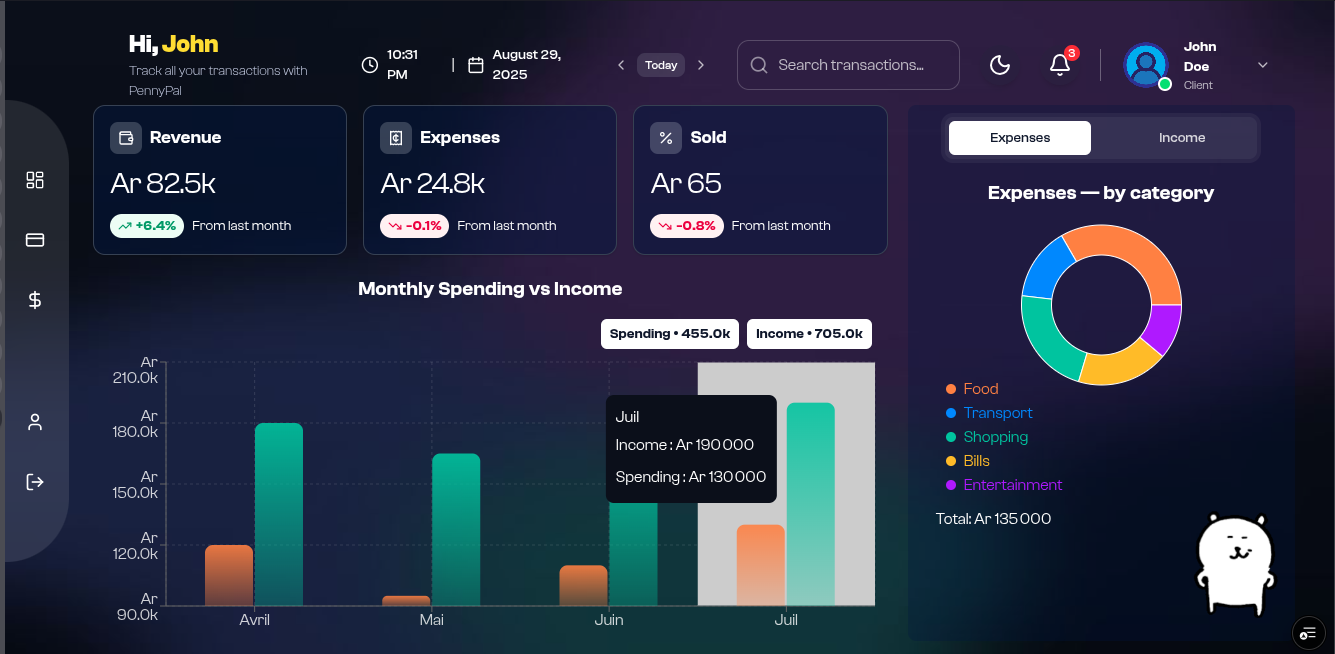
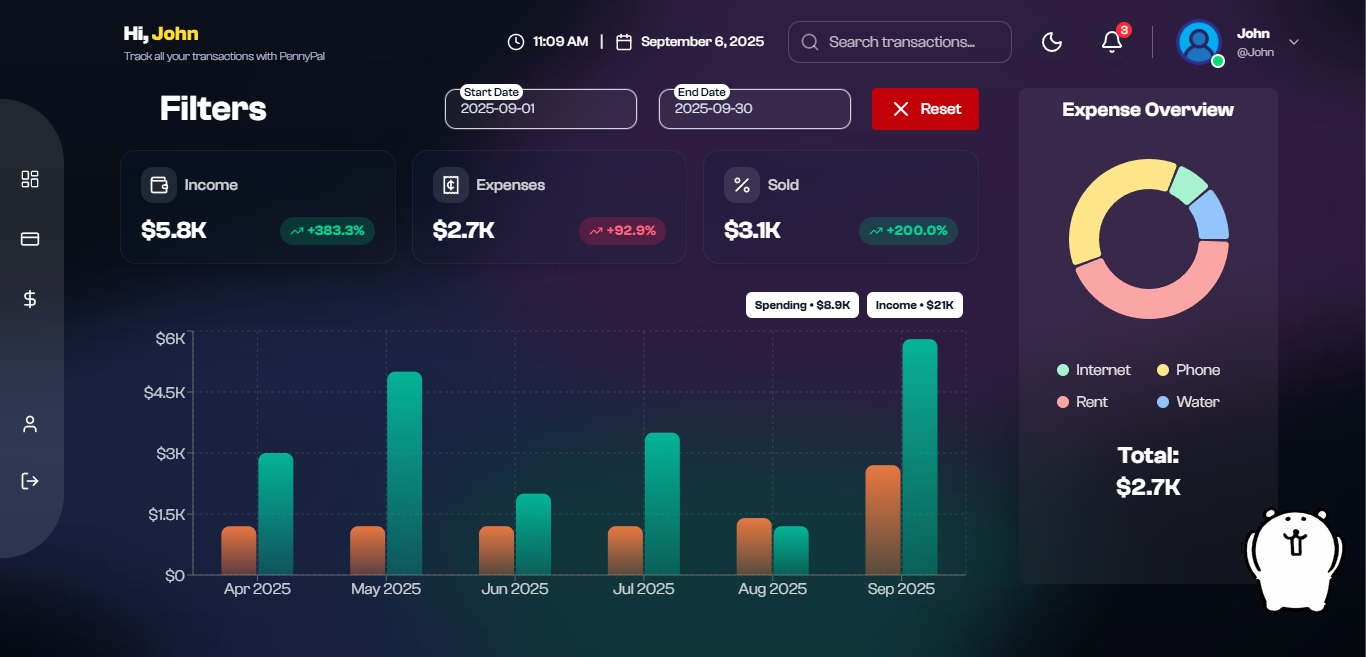
fix: evolution ratio between income, expense and balance between the previous and current month

diff --git a/client/src/pages/Dashboard.tsx b/client/src/pages/Dashboard.tsx
@@ -14,7 +14,10 @@ import {
 import SummaryAlert from "../components/dashboard/SummaryAlert";
 import { useExpenses } from "../hooks/useExpenses";
 import { GlassDatePicker } from "../components/Income";
-import { computeEvolutionBetweenValues } from "../utils/evolutionBetweenValues";
+import {
+  computeEvolutionBetweenValues,
+  computeSoldRatio,
+} from "../utils/evolutionBetweenValues";
 
 function Dashboard() {
   const { data: summaryAlert } = useSummaryAlert();
@@ -102,29 +105,29 @@ function Dashboard() {
             ? "bg-rose-500/20"
             : null,
       },
-
-      {
-        label: "Sold",
-        value: sold,
-        icon: Percent,
-        deltaPct:
-          computeEvolutionBetweenValues(
-            lastMonthSummary?.netBalance ?? 0,
-            thisMonthSummary?.netBalance ?? 0
-          ) ?? 0,
-      },
     ],
     [
-      lastMonthSummary?.netBalance,
       lastMonthSummary?.totalExpense,
       lastMonthSummary?.totalIncome,
-      sold,
-      thisMonthSummary?.netBalance,
       thisMonthSummary?.totalExpense,
       thisMonthSummary?.totalIncome,
       totalExpense,
       totalIncome,
     ]
+  );
+
+  const soldToDisplay = useMemo(
+    () => ({
+      label: "Sold",
+      value: sold,
+      icon: Percent,
+      deltaPct:
+        computeSoldRatio(
+          lastMonthSummary?.netBalance ?? 0,
+          thisMonthSummary?.netBalance ?? 0
+        ) ?? 0,
+    }),
+    [lastMonthSummary?.netBalance, sold, thisMonthSummary?.netBalance]
   );
 
   /* Totals */
@@ -217,6 +220,7 @@ function Dashboard() {
       )}
       <div className="col-span-3 flex flex-col gap-5">
         {/* FILTER */}
+
         <div className="flex items-center text-white justify-between">
           <h1 className="text-4xl pl-10 font-semibold">Filters</h1>
           <div className="flex gap-5 items-center">
@@ -245,6 +249,11 @@ function Dashboard() {
           {toDisplay.map((item, idx) => (
             <MiniStatCard key={idx} {...item} filterWasUsed={filterWasUsed} />
           ))}
+          <MiniStatCard
+            key={"sold"}
+            {...soldToDisplay}
+            filterWasUsed={filterWasUsed}
+          />
         </div>
 
         {/* BARCHART */}

diff --git a/client/src/utils/evolutionBetweenValues.ts b/client/src/utils/evolutionBetweenValues.ts
@@ -2,9 +2,13 @@ export const computeEvolutionBetweenValues = (
   prev: number,
   curr: number
 ): number | null => {
-  if (prev === 0 && curr === 0) return 0;
   if (prev === 0) return null;
-  if (!prev || !curr) return null;
-  const diff = ((curr - prev) / prev) * 100;
-  return isNaN(diff) ? null : diff;
+  return ((curr - prev) / prev) * 100;
+};
+
+export const computeSoldRatio = (prev: number, curr: number): number | null => {
+  const denom = Math.abs(curr) + Math.abs(prev);
+  if (denom === 0) return 0;
+  const ratio = (2 * (curr - prev)) / denom;
+  return Math.max(-2, Math.min(2, ratio)) * 100;
 };

diff --git a/client/src/utils/formatter.ts b/client/src/utils/formatter.ts
@@ -1,11 +1,3 @@
-export const fmtShort = (n: number) =>
-  n >= 1_000_000
-    ? `${(n / 1_000_000).toFixed(1)}M`
-    : n >= 1_000
-    ? `${(n / 1_000).toFixed(1)}k`
-    : `${n}`;
-export const fmtAr = (n: number) => `Ar ${n.toLocaleString("fr-MG")}`;
-
 export function formatMonth(ym: string) {
   const [year, month] = ym.split("-");
   return new Date(Number(year), Number(month) - 1).toLocaleDateString("en-En", {

diff --git a/client/src/hooks/useSummary.ts b/client/src/hooks/useSummary.ts
@@ -7,7 +7,7 @@ import {
 } from "../services/SummaryService";
 import getLastSixMonths from "../utils/getLastSixMonth";
 import { DefaultService } from "../api";
-import { formatMonth } from "../utils/formatter";
+import { formatMonth } from "../utils/formatters";
 import { useMascotStore } from "../stores/mascotStore";
 
 export const useSummaryAlert = () => {

diff --git a/client/src/components/dashboard/DisplayCard.tsx b/client/src/components/dashboard/DisplayCard.tsx
@@ -49,7 +49,7 @@ export default function MiniStatCard({
       <div className="flex items-center justify-between">
         <div
           className={`text-2xl font-semibold tracking-tight ${
-            value < 0 ? "text-red-400" : "text-white"
+            value < 0 ? "text-red-500" : "text-white"
           }`}
         >
           {valueStr}

diff --git a/client/src/utils/formatters.ts b/client/src/utils/formatters.ts
@@ -39,3 +39,11 @@ export const fmt = (dateStr?: string | null) => {
     return "";
   }
 };
+
+export function formatMonth(ym: string) {
+  const [year, month] = ym.split("-");
+  return new Date(Number(year), Number(month) - 1).toLocaleDateString("en-US", {
+    month: "short",
+    year: "numeric",
+  });
+}
